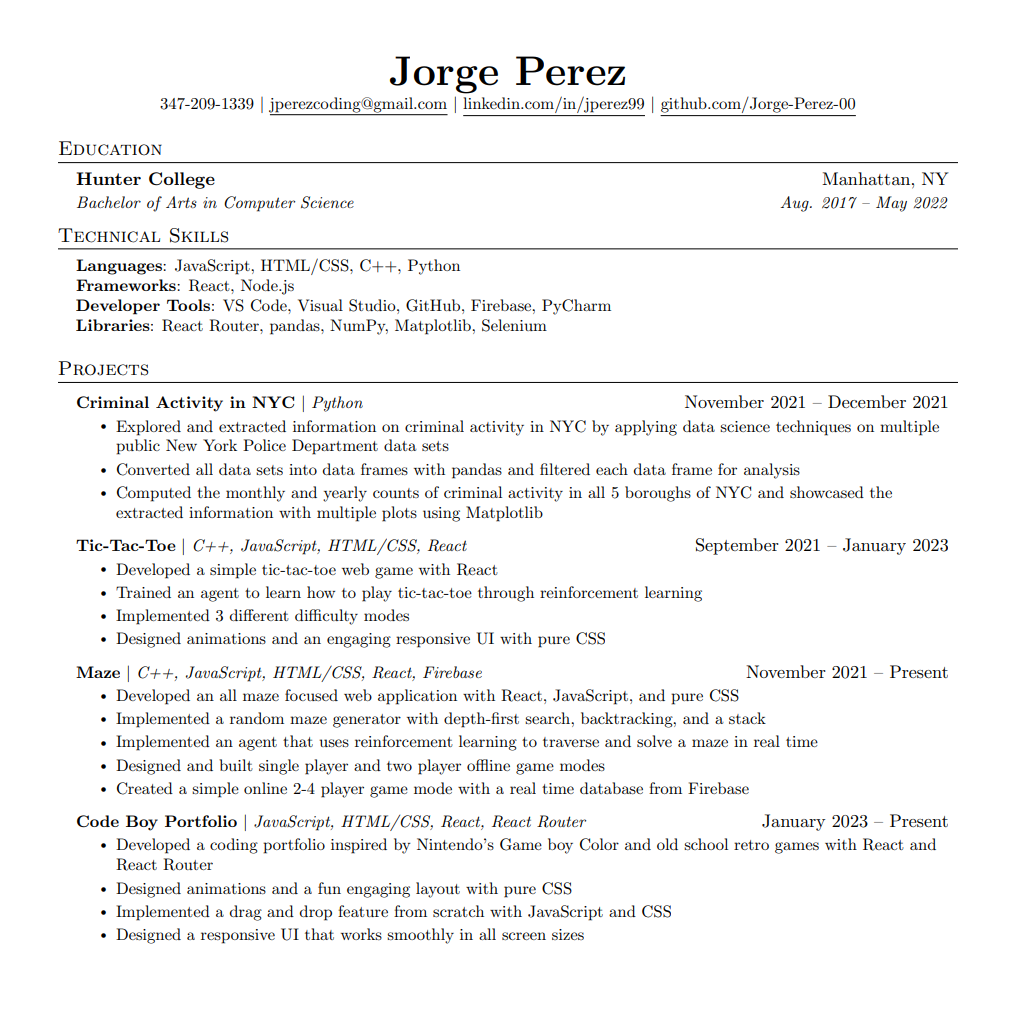
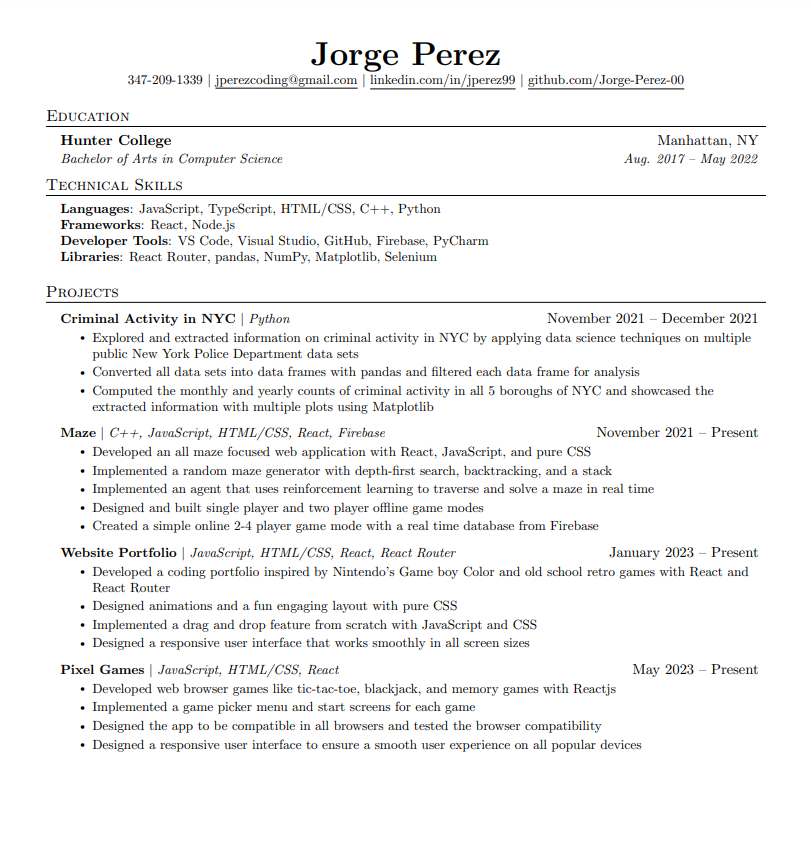
Updated resume

Changed region(s): [[0.0308, 0.0308, 0.9556, 0.9231]]

diff --git a/src/components/Singlepage.js b/src/components/Singlepage.js
@@ -279,16 +279,16 @@ function Singlepage(props) {
                 <h1 className='subtitle'>PROJECTS</h1>
 
                 <div className="cards-container project-cards-container">
-                    <div className="card project-cards">
+                    {/*<div className="card project-cards">
                         <img src={require(`../images/Games/skyblue-game-tictactoe.png`)} alt="my pixelated character" className="card-image pixel-art-images project-images" />
                         <div className="card-text-container">
                             <h3 className="card-title">Tic-Tac-Toe</h3>
                             <p className="card-text project-text">Simple tic-tac-toe game where you play against an agent that was trained with reinforcement learning. </p>
                         </div>
-                    </div>
+                    </div>*/}
 
                     <div className="card project-cards">
-                        <img src={require(`../images/Games/skyblue-game-maze.png`)} alt="NYC" className="card-image pixel-art-images project-images" />
+                        <img src={require(`../images/Games/skyblue-game-maze.png`)} alt="maze" className="card-image pixel-art-images project-images" />
                         <div className="card-text-container">
                             <h3 className="card-title">Maze</h3>
                             <p className="card-text project-text">Maze application where you can train an agent to solve any 30x30 maze with reinforcement learning, play 1 player and 2 player offline games, and play a 4 player online multiplayer game.</p>
@@ -296,13 +296,20 @@ function Singlepage(props) {
                     </div>
 
                     <div className="card project-cards">
-                        <img src={require(`../images/Games/skyblue-game-codeboy.png`)} alt="Hunter College" className="card-image pixel-art-images project-images" />
+                        <img src={require(`../images/Games/skyblue-game-codeboy.png`)} alt="codeboy" className="card-image pixel-art-images project-images" />
                         <div className="card-text-container">
                             <h3 className="card-title">Codeboy</h3>
                             <p className="card-text project-text">My coding portfolio built with a lot of love. The portfolio was built with reactjs and it contains many animations and custom art implemented and created from scratch by me.</p>
                         </div>
                     </div>
 
+                    <div className="card project-cards">
+                        <img src={require(`../images/Games/skyblue-game-pixelgames.png`)} alt="pixel games" className="card-image pixel-art-images project-images" />
+                        <div className="card-text-container">
+                            <h3 className="card-title">Pixel Games</h3>
+                            <p className="card-text project-text">Reactjs app where you can play browser games like tic-tac-toe, blackjack, memory games, and many more.</p>
+                        </div>
+                    </div>
                 </div>
 
 

diff --git a/src/components/Codeboy.js b/src/components/Codeboy.js
@@ -16,19 +16,22 @@ function Codeboy(props) {
 
             <div className="image-cards-container">
                 <div className="image-card">
-                    <img src={require(`../images/Games/skyblue-game-aboutme.png`)} alt="javascript" className="image-card-image pixel-art-images" />
+                    <img src={require(`../images/Games/skyblue-game-aboutme.png`)} alt="aboutme" className="image-card-image pixel-art-images" />
                 </div>
                 <div className="image-card">
-                    <img src={require(`../images/Games/skyblue-game-skills.png`)} alt="javascript" className="image-card-image pixel-art-images" />
+                    <img src={require(`../images/Games/skyblue-game-skills.png`)} alt="skills" className="image-card-image pixel-art-images" />
                 </div>
                 <div className="image-card">
-                    <img src={require(`../images/Games/skyblue-game-tictactoe.png`)} alt="javascript" className="image-card-image pixel-art-images" />
+                    <img src={require(`../images/Games/skyblue-game-tictactoe.png`)} alt="tic-tac-toe" className="image-card-image pixel-art-images" />
                 </div>
                 <div className="image-card">
-                    <img src={require(`../images/Games/skyblue-game-maze.png`)} alt="javascript" className="image-card-image pixel-art-images" />
+                    <img src={require(`../images/Games/skyblue-game-maze.png`)} alt="maze" className="image-card-image pixel-art-images" />
                 </div>
                 <div className="image-card">
-                    <img src={require(`../images/Games/skyblue-game-codeboy.png`)} alt="javascript" className="image-card-image pixel-art-images" />
+                    <img src={require(`../images/Games/skyblue-game-codeboy.png`)} alt="codeboy" className="image-card-image pixel-art-images" />
+                </div>
+                <div className="image-card">
+                    <img src={require(`../images/Games/skyblue-game-pixelgames.png`)} alt="pixel games" className="image-card-image pixel-art-images" />
                 </div>
             </div>
 
